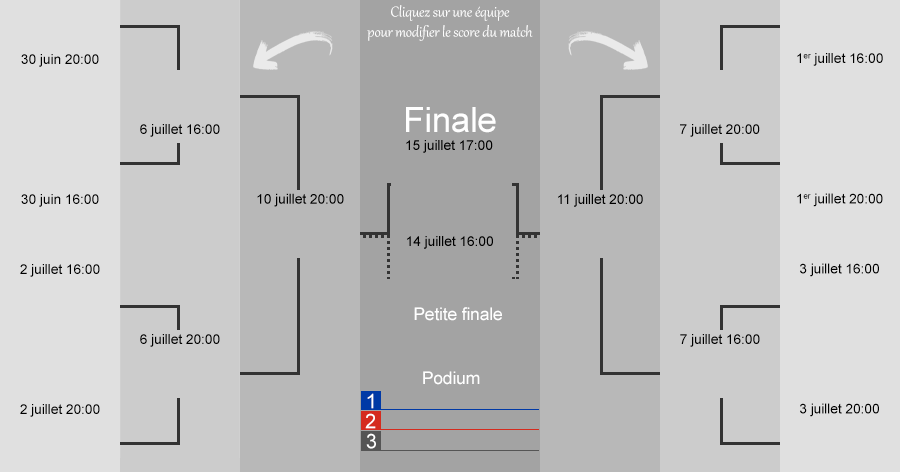
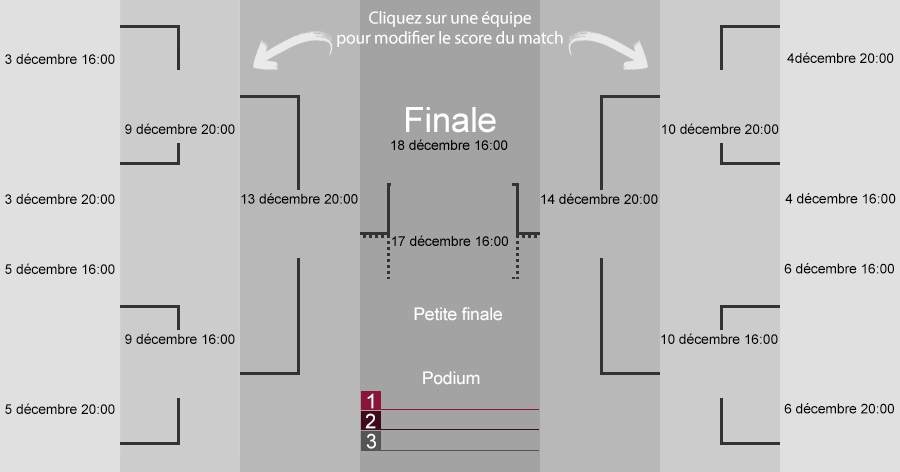
Adaptation Qatar

diff --git a/cdm/css/cdm/cdm.css b/cdm/css/cdm/cdm.css
@@ -29,12 +29,12 @@
 }
 
 .ui-dialog .ui-dialog-content {
-	background-color: #0039a6;
+	background-color: #8a1538;
 }
 
 .ui-dialog .ui-dialog-buttonpane {
 	margin: 0;
-	background-color: #0039a6;
+	background-color: #8a1538;
 }
 
 .ui-dialog .ui-dialog-buttonpane .ui-dialog-buttonset {
@@ -49,17 +49,17 @@
 /* Boutons */
 .ui-state-default a, .ui-state-default a:link, .ui-state-default a:visited {
 	color: #fff;
-	background-color: #0039a6;
+	background-color: #8a1538;
 	text-decoration: none;
 }
 
 .ui-state-default a:hover, .ui-state-default a:active {
-	background-color: #d52b1e;
+	background-color: #410a1b;
 	background-image: none;
 }
 
 li.ui-tabs-active .ui-tabs-anchor, .ui-tabs .ui-tabs-nav li.ui-state-disabled .ui-tabs-anchor, .ui-tabs .ui-tabs-nav li.ui-tabs-loading .ui-tabs-anchor {
-	background-color: #d52b1e;
+	background-color: #8a1538;
 	background-image: none;
 }
 
@@ -70,11 +70,11 @@ li.ui-tabs-active .ui-tabs-anchor, .ui-tabs .ui-tabs-nav li.ui-state-disabled .u
 
 .ui-button, .ui-dialog .ui-dialog-buttonpane button {
 	color: #fff;
-	background-color: #0039a6;
+	background-color: #8a1538;
 }
 
 .ui-button:hover, .ui-dialog .ui-dialog-buttonpane button:hover {
-	background-color: #d52b1e;
+	background-color: #410a1b;
 }
 
 .ui-tabs .ui-tabs-panel {
@@ -100,7 +100,7 @@ body {
 	background-color: #cccccc;
 	font: 0.9em Verdana,Helvetica,Arial,sans-serif;
 	height: 100%;
-	background-image: url('../../images/fond/fond_principal_russie.jpg');
+	background-image: url('../../images/fond/fond_principal_qatar.png');
 	background-repeat: repeat;
 	background-position: center top;
 }
@@ -111,7 +111,7 @@ ul {
 
 select, select option {
 	color: #fff;
-	background-color: #0039a6;
+	background-color: #8a1538;
 	border: 1px solid #fff;
 }
 
@@ -148,7 +148,7 @@ h1 {
 
 .blanc {
 	background-color: #fff;
-	color: #0039a6;
+	color: #8a1538;
 }
 
 .vert {
@@ -170,11 +170,11 @@ h1 {
 }
 
 .pair {
-	background-color: #0039a6;
+	background-color: #8a1538;
 }
 
 .impair {
-	background-color: #828282;
+	background-color: #410a1b;
 }
 
 table tbody tr.bordureHaut td {
@@ -187,7 +187,7 @@ table {
 
 table thead th {
 	background-color: #fff;
-	color: #0039a6;
+	color: #8a1538;
 	font-size: 0.9em;
 	font-weight: normal;
 }
@@ -219,7 +219,7 @@ table.lignes tbody tr td {
 	height: 20px;
 	padding: 10px; 
 	text-align: center; 
-	background: #0039a6;
+	background: #8a1538;
 	color: #fff;
 	text-decoration: none;
 	position: fixed;
@@ -282,7 +282,7 @@ table.lignes tbody tr td {
 	display: none;
 	padding: 5px 0 5px 5px;
 	margin-left: 30px;
-	background-color: #872a2b;
+	background-color: #8a1538;
 	position: absolute;
 	top: 70px;
 }
@@ -354,7 +354,7 @@ table.lignes tbody tr td {
 }
 
 #divMenuW8 div.tuileCarree:hover, #divMenuW8 div.tuileRectangulaire:hover {
-	background-color: #d52b1e;
+	background-color: #8a1538;
 }
 
 #divMenuW8 div.tuileFermer {
@@ -367,7 +367,7 @@ table.lignes tbody tr td {
 }
 
 #divMenuW8 div.tuileFermer label.fermer:hover {
-	color: #d52b1e;
+	color: #8a1538;
 }
 
 #divMenuW8 div.tuileProfil {
@@ -379,7 +379,7 @@ table.lignes tbody tr td {
 }
 
 #divMenuW8 div.tuileProfil div.zoneTexte label.deconnecter:hover {
-	color: #d52b1e;
+	color: #8a1538;
 }
 
 #divMenuW8 div.tuileProfil div.zoneTexte {
@@ -474,7 +474,7 @@ table.lignes tbody tr td {
 }
 
 #divConnexion div.validation:hover {
-	color: #d52b1e;
+	color: #8a1538;
 }
 
 #divConnexion input {
@@ -488,8 +488,8 @@ table.lignes tbody tr td {
 
 #divConnexion input:focus {
 	color: #fff;
-	background-color: #d52b1e;
-	border: 1px solid #d52b1e;
+	background-color: #8a1538;
+	border: 1px solid #8a1538;
 	outline: none;
 }
 
@@ -570,20 +570,20 @@ table.lignes tbody tr td {
 }
 
 #divPronosticsPoules table.classementPoule tbody tr.fondVert {
-	background-color: #0039a6;
+	background-color: #8a1538;
 }
 
 #divPronosticsPoules table.classementPoule tbody tr.fondOrange {
-	background-color: #d52b1e;
+	background-color: #8a1538;
 }
 
 #divPronosticsPoules .ui-button .ui-button-text {
-	color: #0039a6;
-	background-image: url('../../images/fond_transparent.png');
+	color: #fff;
+	background-color: #8a1538;
 }
 
 #divPronosticsPoules .ui-button .ui-button-text:hover {
-	background-color: #d52b1e;
+	background-color: #8a1538;
 }
 
 ul.listeTriee li {
@@ -623,7 +623,7 @@ ul.listeTriee li {
 #divEntetePhaseFinale {
 	font-size: 1.2em;
 	color: #fff;
-	background: #0039a6;
+	background: #410a1b;
 	width: 900px;
 	height: 40px;
 	line-height: 40px;
@@ -670,7 +670,7 @@ ul.listeTriee li {
 	width: 120px;
 	height: 24px;
 	line-height: 24px;
-	background: #d52b1e;
+	background: #8a1538;
 }
 
 #divTableau div.equipe1_8 span.score, #divTableau div.equipe1_4 span.score, #divTableau div.equipe1_2 span.score, #divTableau div.equipe1_1 span.score {
@@ -758,7 +758,7 @@ ul.listeTriee li {
 	width: 900px;
 	height: 50px;
 	color: #fff;
-	background-color: #0039a6;
+	background-color: #410a1b;
 	text-align: center;
 	padding-top: 10px;
 	position: relative;
@@ -796,7 +796,7 @@ ul.listeTriee li {
 }
 
 #divMeilleurButeur div.listeJoueurs table tbody tr:hover td {
-	background-color: #d52b1e;
+	background-color: #8a1538;
 	cursor: pointer;
 }
 
@@ -940,7 +940,7 @@ ul.listeTriee li {
 ,#tblStatistiques tr:nth-child(even)
 ,#tblStatistiquesEvolution tr:nth-child(even)
 ,#tblPoints tr:nth-child(even) {
-	background-color: #0039a6;
+	background-color: #8a1538;
 }
 
 #tblPronosticsPoule tr:nth-child(odd)
@@ -1078,7 +1078,7 @@ ul.listeTriee li {
 }
 
 #divStatistiques table tr:nth-child(even) {
-	background-color: #0039a6;
+	background-color: #8a1538;
 }
 
 #divStatistiques table tr:nth-child(odd) {

diff --git a/cdm/creer_prono_changement_score.php b/cdm/creer_prono_changement_score.php
@@ -17,7 +17,7 @@
 	
 	// Affichage des scores de l'équipe
 	function afficherScoreEquipe($unMatch, $equipeAB) {
-		if($_SESSION["cdm_pronostiqueur"] != 1 && time() > 1528988400)
+		if($_SESSION["cdm_pronostiqueur"] != 1 && time() > 1668960000)
 			$disabled = ' disabled';
 		else
 			$disabled = '';
@@ -38,7 +38,7 @@
 	// Affichage des scores AP de l'équipe
 	function afficherScoreAPEquipe($unMatch, $equipeAB) {
 		$style = ' style="visibility: hidden;"';
-		if($_SESSION["cdm_pronostiqueur"] != 1 && time() > 1528988400)
+		if($_SESSION["cdm_pronostiqueur"] != 1 && time() > 1668960000)
 			$disabled = ' disabled';
 		else
 			$disabled = '';
@@ -70,7 +70,7 @@
 	function afficherTAB($unMatch) {
 		// TAB
 		$style = ' style="visibility: hidden;"';
-		if($_SESSION["cdm_pronostiqueur"] != 1 && time() > 1528988400)
+		if($_SESSION["cdm_pronostiqueur"] != 1 && time() > 1668960000)
 			$disabled = ' disabled';
 		else
 			$disabled = '';
@@ -100,7 +100,7 @@
 		echo '</span>';
 	}
 
-	if($_SESSION["cdm_pronostiqueur"] != 1 && time() > 1528988400) {
+	if($_SESSION["cdm_pronostiqueur"] != 1 && time() > 1668960000) {
 		echo 'Désolé, il n\'est plus possible d\'effectuer de pronostic';
 		exit();
 	}

diff --git a/cdm/connexion.php b/cdm/connexion.php
@@ -3,8 +3,8 @@
 	
 	// Connexion à la base de données
 	try {
-		if($_SERVER['HTTP_HOST'] == 'localhost') {
-			$bdd = new PDO('mysql:host=localhost;dbname=lepoulpeg', 'root', '', array(\PDO::MYSQL_ATTR_INIT_COMMAND => 'SET NAMES utf8'));
+		if(substr($_SERVER['HTTP_HOST'], 0, 9) == 'localhost') {
+			$bdd = new PDO('mysql:host=db;port=3306;dbname=lepoulpeg', 'root', 'Allezlom2014', array(\PDO::MYSQL_ATTR_INIT_COMMAND => 'SET NAMES utf8'));
 		} else {
 			$bdd = new PDO('mysql:host=lepoulpeg.mysql.db;dbname=lepoulpeg', 'lepoulpeg', 'Allezlom2014', array(\PDO::MYSQL_ATTR_INIT_COMMAND => 'SET NAMES utf8'));
 		}

diff --git a/cdm/accueil.php b/cdm/accueil.php
@@ -17,9 +17,9 @@
 		// - avant le premier match de poule : phase de pronostics
 		// - après le premier match de poule et une heure avant le premier 1/8 de finale : phase de poule
 		// - après la phase de poule on se trouve en phase finale
-		if(time() < 1528988400) {
+		if(time() < 1668960000) {
 			$phase = 0;
-		} else if(time() >= 1528988400 && time() < 1530363600) {
+		} else if(time() >= 1668960000 && time() < 1670079600) {
 			$phase = 1;
 		} else {
 			$phase = 2;

diff --git a/cdm/bandeau.php b/cdm/bandeau.php
@@ -6,9 +6,9 @@
 	// - avant le premier match de poule : phase de pronostics
 	// - après le premier match de poule et une heure avant le premier 1/8 de finale : phase de poule
 	// - après la phase de poule on se trouve en phase finale
-	if(time() < 1528988400) {
+	if(time() < 1668960000) {
 		$phase = 0;
-	} else if(time() >= 1528988400 && time() < 1530363600) {
+	} else if(time() >= 1668960000 && time() < 1670079600) {
 		$phase = 1;
 	} else {
 		$phase = 2;

diff --git a/cdm/creer_prono_maj_prono_poule.php b/cdm/creer_prono_maj_prono_poule.php
@@ -10,7 +10,7 @@
 
 	// Le paramètre equipe indique s'il s'agit du score de l'équipe A ou celui de l'équipe B
 	// On vérifie avant tout qu'il n'est pas trop tard pour faire la modification
-	if($_SESSION["cdm_pronostiqueur"] != 1 && time() > 1528988400) {
+	if($_SESSION["cdm_pronostiqueur"] != 1 && time() > 1668960000) {
 		echo 'DEPASSE';
 		exit();
 	}

diff --git a/cdm/creer_prono.php b/cdm/creer_prono.php
@@ -216,7 +216,7 @@
 														}
 													);
 			<?php
-				if($_SESSION["cdm_pronostiqueur"] == 1 || time() < 1528988400) {
+				if($_SESSION["cdm_pronostiqueur"] == 1 || time() < 1668963600) {
 			?>
 					$('#nomMeilleurButeur').keyup(function(event) {
 						// Lecture de la taille de la zone de texte

diff --git a/cdm/creer_prono_sauvegarde_buteur.php b/cdm/creer_prono_sauvegarde_buteur.php
@@ -6,7 +6,7 @@
 	// Lecture des paramètres passés à la page
 	$joueur = isset($_POST["joueur"]) ? $_POST["joueur"] : 0;
 
-	if($_SESSION["cdm_pronostiqueur"] != 1 && time() > 1528988400) {
+	if($_SESSION["cdm_pronostiqueur"] != 1 && time() > 1668960000) {
 		echo 'Heure de pronostic dépassée';
 		exit();
 	}

diff --git a/cdm/creer_prono_maj_score.php b/cdm/creer_prono_maj_score.php
@@ -15,7 +15,7 @@
 	// - vainqueur : l'utilisateur a choisi l'équipe vainqueur du match
 	$type = isset($_POST["type"]) ? $_POST["type"] : '';
 	
-	if($_SESSION["cdm_pronostiqueur"] != 1 && time() > 1528988400) {
+	if($_SESSION["cdm_pronostiqueur"] != 1 && time() > 1668960000) {
 		echo 'DEPASSE';
 		exit();
 	}

diff --git a/cdm/premiere_connexion.php b/cdm/premiere_connexion.php
@@ -9,7 +9,7 @@
 ?>
 </head>
 
-<body style="background: url('images/fond/fond_principal_russie.jpg') repeat 0% 0%;">
+<body style="background: url('images/fond/fond_principal_qatar.png') repeat 0% 0%;">
 	<?php
 		$nomPage = 'premiere_connexion.php';
 		

diff --git a/cdm/commun_entete.php b/cdm/commun_entete.php
@@ -7,4 +7,4 @@
 	<link rel="stylesheet" href="css/custom-theme/jquery-ui-1.10.4.custom.css" />
 	<link rel="stylesheet" href="css/cdm/cdm.css" />
 	
-	<title>Russie 2018</title>
+	<title>Qatar 2022</title>

diff --git a/cdm/creer_prono_maj_sequencement.php b/cdm/creer_prono_maj_sequencement.php
@@ -1,7 +1,7 @@
 <?php
 	include_once('commun.php');
 
-	if($_SESSION["cdm_pronostiqueur"] != 1 && time() > 1528988400) {
+	if($_SESSION["cdm_pronostiqueur"] != 1 && time() > 1668960000) {
 		exit();
 	}
 	
